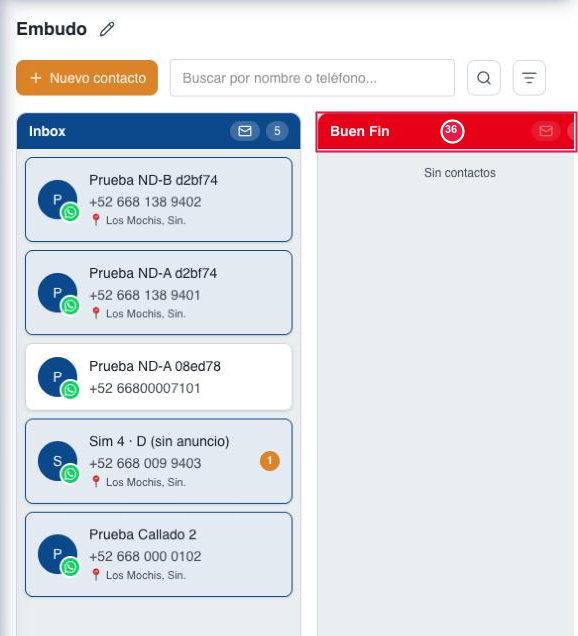
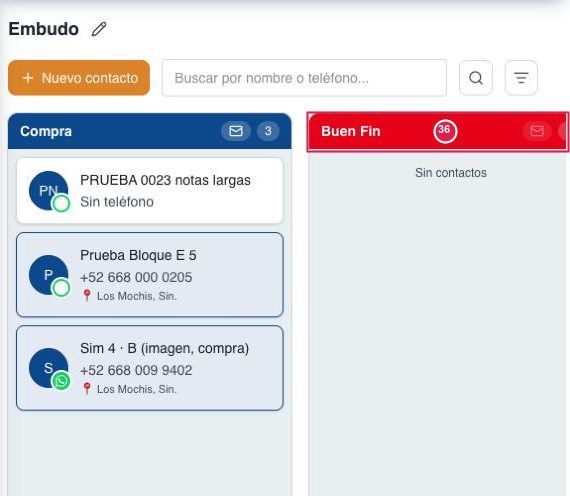
docs(embudo): la columna Buen Fin va al final, después de Compra (decisión del dueño)

diff --git a/docs/mapa-crm/3.3-embudo.md b/docs/mapa-crm/3.3-embudo.md
@@ -69,11 +69,11 @@ y el buscador, la lupa y lo que llega en vivo también encuentran a los que aún
 ![Más contactos al bajar en Inbox](06-embudo-mas.png)
 
 **Columna Buen Fin (36)** (temporal, desde el 3-nov-2026): los clientes a los que se les avisará del descuento del Buen
-Fin en la compuerta estándar. Va justo después de Inbox y su encabezado es **rojo** en lugar de azul. El Agente IA no
-mete a nadie aquí (no tiene regla): las tarjetas se arrastran a mano. Si un cliente de esta columna contesta y avanza
-(pide precio, da medidas, pide los datos para pagar), el Agente IA lo pasa a la etapa que toque, como siempre; mientras
-está aquí lo atiende el Modelo 1. Al terminar la campaña se borra con el lápiz (17) y se elige a qué columna pasan los
-que queden.
+Fin en la compuerta estándar. Va al final, después de Compra, y su encabezado es **rojo** en lugar de azul. Las
+tarjetas entran y salen solo arrastrándolas a mano: el Agente IA no mete a nadie aquí (no tiene regla) y, como solo
+avanza y esta es la última columna, tampoco saca a nadie. Quien compre desde aquí se arrastra a **Compra (10)** para
+que cuente en Anuncios › Compraron. Mientras está aquí lo atiende el Modelo 1. Al terminar la campaña se borra con el
+lápiz (17) y se elige a qué columna pasan los que queden.
 
 ![Columna Buen Fin en el Embudo](06-embudo-buen-fin.png)
 
@@ -114,7 +114,7 @@ que queden.
 | 33 | **No leído** (sobre junto al contador) | Píldora del mismo alto que el contador, solo con el sobre. Prendida (**naranja**) esa columna deja solo las tarjetas con algo pendiente: círculo naranja (6), azul (4) o amarilla (3); el contador cuenta solo esas y la vacía dice «Nada sin leer ni sin contestar». Cada columna va por su lado (se pueden prender varias). **Blanca** = apagada y la columna tiene pendientes; **tenue** = apagada y no tiene ninguno. En vivo: una tarjeta que se vuelve pendiente aparece sola; la que abres se queda mientras el pop-up está abierto aunque la leas, y se va al cerrarlo. Se suma al buscador (1), la lupa (30) y el filtro (29). No se recuerda al recargar. Desde el 30-sep-2026. | Todos |
 | 34 | **Tarjeta con fondo** | Patrón fijo de los chats que no son clientes (paquetería, costura, chat propio). Pura vista: la azul (4) y la amarilla (3) mandan mientras pidan atención. No hay botón: se agrega o se quita pidiéndoselo a Code. | Todos |
 | 35 | **Cargando más contactos…** (final de Inbox) | Al bajar en Inbox llegan los siguientes contactos solos, de 500 en 500; mientras, dice «Cargando más contactos…» (o «Hay más contactos abajo»). El contador de la columna sigue diciendo el total. Al buscar por nombre, teléfono o @usuario también encuentra a los que aún no bajaban («Buscando en todos los contactos…» junto al título). Desde el 2-nov-2026. | Todos |
-| 36 | **Columna Buen Fin** (encabezado rojo, temporal) | Lista de clientes para avisarles del descuento del Buen Fin en la compuerta estándar. Después de Inbox, Modelo 1, sin regla del Agente IA: entran solo arrastrando; salen hacia adelante cuando el cliente avanza. Se borra al terminar la campaña. Desde el 3-nov-2026. | Todos |
+| 36 | **Columna Buen Fin** (encabezado rojo, temporal) | Lista de clientes para avisarles del descuento del Buen Fin en la compuerta estándar. Al final, después de Compra; Modelo 1, sin regla del Agente IA: entran y salen solo arrastrando (quien compre, a Compra). Se borra al terminar la campaña. Desde el 3-nov-2026. | Todos |
 
 **Lo cambias tú desde la pantalla:** contactos nuevos (20) y el primer mensaje a quien no tiene chat (25–26), la etapa (arrastrando la tarjeta), leído / no leído (clic derecho o **Marcar como leído**, 19), quitar el color de la tarjeta (clic derecho › **Quitar tarjeta**), las
 columnas (lápiz, 17) y todo lo del chat y el Detalle en el pop-up. Los cambios a las columnas (crear, renombrar, borrar,

diff --git a/docs/bandeja.md b/docs/bandeja.md
@@ -243,9 +243,11 @@ clic abre un menú para cambiarla sin abrir el chat. Lista y panel quedan sincro
   `public/fondos/`): paquetería = cartón, costura = lila, chat propio = gris. Sin azul, amarillo ni naranja.
   Nunca junto con la señal: con azul o amarilla la tarjeta lleva ese color y, al atenderse, vuelve el patrón.
 - **Columna Buen Fin (3-nov-2026, dueño, temporal):** la única columna con encabezado **rojo** (`bg-red-600`)
-  en vez del azul marino; sale de su clave `buen_fin` en `StageColumn`. Va después de Inbox, Modelo 1, sin
-  regla del Agente IA (entran solo arrastrando; el Agente IA los saca hacia adelante si avanzan). Al
-  terminar la campaña se borra la columna y esa condición (mapa › Embudo › 36).
+  en vez del azul marino; sale de su clave `buen_fin` en `StageColumn`. Va al final, después de Compra
+  (decisión del dueño), Modelo 1, sin regla del Agente IA: entran y salen solo a mano (el Agente IA solo
+  avanza, así que no saca a nadie; quien compre se arrastra a Compra para contar en Anuncios). En
+  Dashboard › Seguimientos, arrastrar a alguien aquí cuenta como «avanzó» (`seguimientos.ts` compara
+  posiciones). Al terminar la campaña se borra la columna y esa condición (mapa › Embudo › 36).
 - **Orden de cada columna:** de más reciente a más viejo por lo último entre "entró a la etapa"
   (`stage_changed_at`) y "el cliente escribió" (max `window_expires_at` − 24 h de sus chats: la ventana
   se mueve SOLO con entrantes). En vivo: la señal del SSE trae `lastInboundAt` y la tarjeta sube sin
